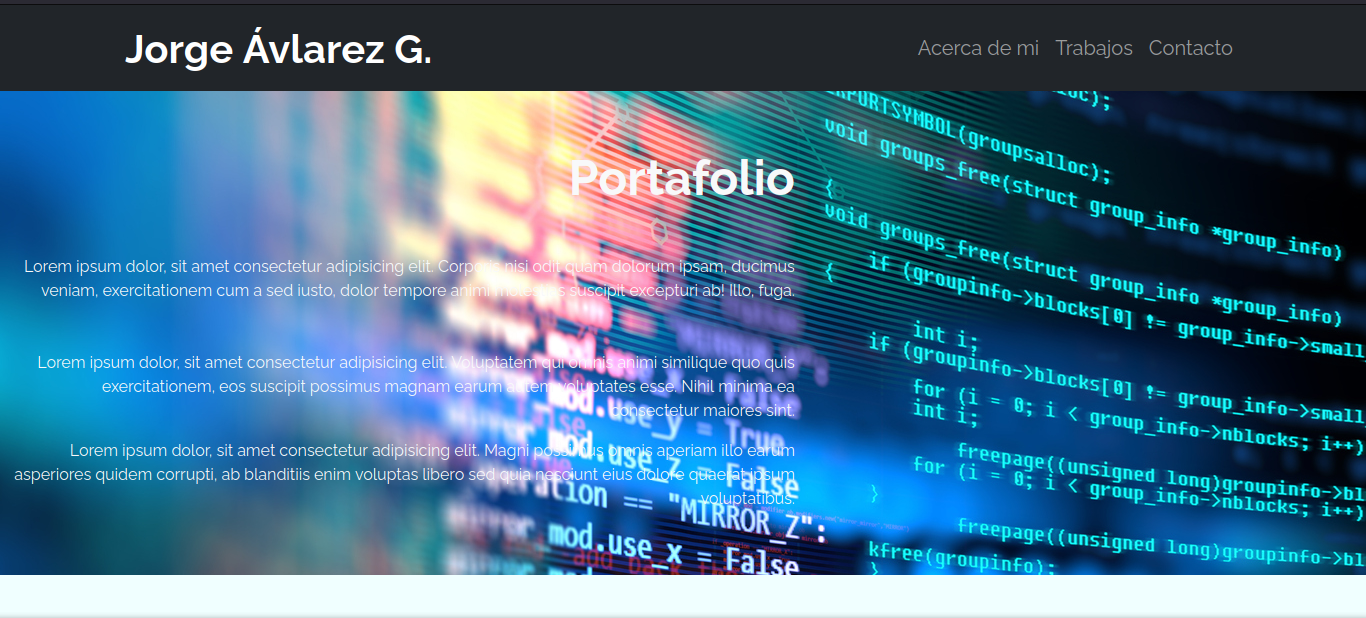
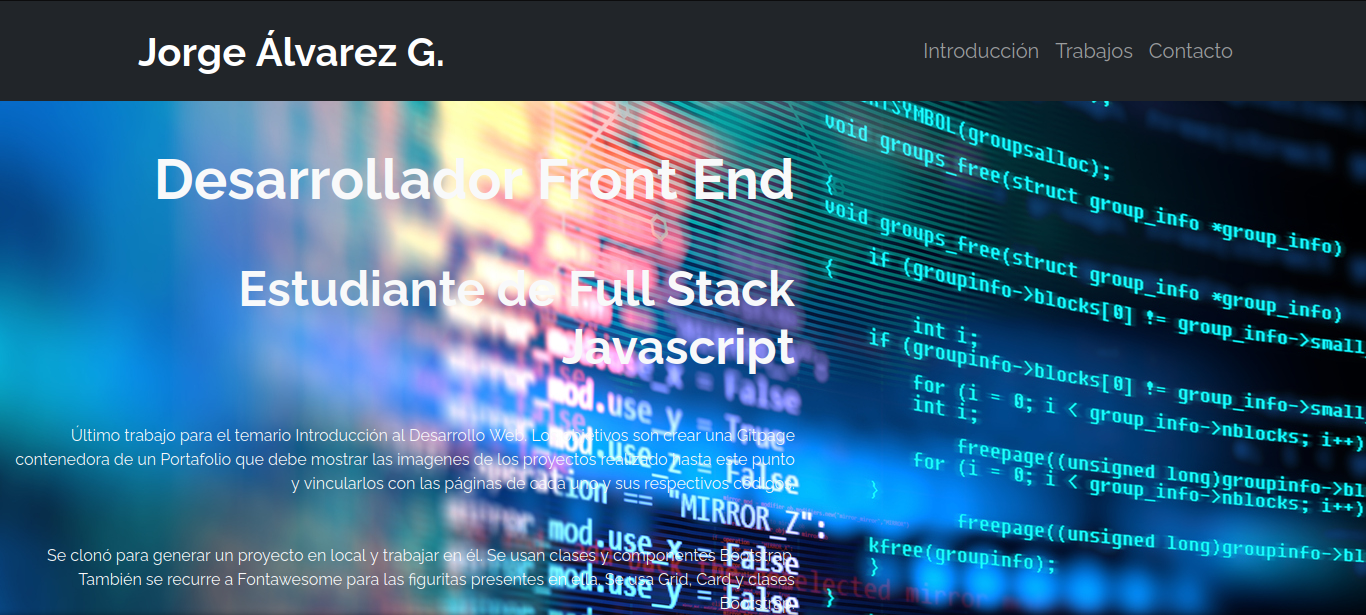
se hace leve corrección a la imagen del Header; se modifica el texto introducctorio; se corrigen errores de escritura

diff --git a/index.html b/index.html
@@ -26,6 +26,8 @@
     <nav class="navbar navbar-expand-lg navbar-dark bg-dark fixed-top">
         <div class="container">
             <a class="navbar-brand" href="#">
+                <!--Se hace referencia al id que corresponde al Modal-->
+                <!--Se usa un div, pero se le dan características y clases de botón Bootstrap-->
                 <div type="button" class="btn btn-dark fw-bold fs-1" data-bs-toggle="modal"
                     data-bs-target="#exampleModal">Jorge
                     Álvarez G.
@@ -51,7 +53,7 @@
         </div>
     </nav>
 
-    <!-- Modal -->
+    <!-- Modal sencillo con imagen y un breve texto -->
     <div class="modal fade" id="exampleModal" tabindex="-1" aria-labelledby="exampleModalLabel" aria-hidden="true">
         <div class="modal-dialog">
             <div class="modal-content bg-black text-bg-light text-light">
@@ -83,7 +85,7 @@
 
     <header id="Hero-Section" class="text-light text-end py-5 mt-5">
         <div class="container-fluid">
-            <div class="col-12 col-md-7 ">
+            <div class="col-12 col-md-7">
                 <hgroup>
                     <h1 class="display-4 fw-bold my-5">
                         Desarrollador Front End
@@ -93,18 +95,19 @@
                     </h2>
                 </hgroup>
                 <p class="my-5">
-                    Último trabajo para el temario Introducción al Desarrollo Web. Los objetivos son crear una Gitpage
-                    contenedora de un Portafolio que debe mostrar las imagenes de los proyectos realizado hasta este
-                    punto y vincularlos con las páginas de cada uno y sus respectivos códigos.
+                    Último trabajo para el temario <strong>Introducción al Desarrollo Web</strong>. A continuación se
+                    hace una breve descripción de la forma de trabajar el proyecto. <br> Los objetivos son crear una
+                    Gitpage contenedora de un Portafolio que debe mostrar las imagenes de los proyectos realizado hasta
+                    este punto y vincularlos con las páginas de cada uno y sus respectivos códigos.
                 </p>
                 <p>
                     Se clonó para generar un proyecto en local y trabajar en él. Se usan clases y componentes Bootstrap.
-                    También se recurre a Fontawesome para las figuritas presentes en ella. Se usa Grid, Card y clases
-                    Bootstrap.
+                    También se recurre a Fontawesome para las figuritas presentes en ella (en el footer). Se usa Grid,
+                    Card, Modal, clases Bootstrap, etcétera.
                 </p>
                 <p>
-                    Se usan algunos elementos CSS específicos para dar el efecto de papiro (scroll) con una imagen de
-                    fondo global y otra particular (efecto parallax).
+                    Se usan algunos elementos CSS específicos para dar el efecto de papiro o rollo (scroll) con una
+                    imagen de fondo global y otra particular en la sección Mis Trabajos (parallax).
                 </p>
                 <!--<div class="mb-5 pb-5">
                     <button class="btn btn-lg btn-outline-info text-light me-4">Trabajos</button>
@@ -276,7 +279,7 @@
                     <img src="assets/img/PruebaPortafolio.png" class="card-img-top" alt="cv">
                     <div class="card-body">
                         <h5 class="card-title fw-bold">
-                            Prueba Portafolio
+                            Prueba final del primer módulo
                         </h5>
                         <p class="card-text">
                             Trabajo consistente en elaborar una gitpage directamente en el sitio. Luego clonarlo y
@@ -294,13 +297,13 @@
                     <img src="assets/img/ForkProyecto4.png" alt="proyecto4">
                     <div class="card-body">
                         <h5 class="card-title fw-bold">
-                            Fork a Proyectos de Comapañeras
+                            Fork a Proyectos de Compañeras y Compañeros del curso
                         </h5>
                         <p>
-                            Fork al Proyecto 4 de la compañera Jennifer, Vania y Felipe. En el primero se agrega un
-                            área para mensajes y se separa el botón Enviar de los elementos anteriores. En el segundo,
-                            se aumentó la separación horizontal de los elementos Card. Para Felipe solo hice Fork. Sólo
-                            se incluyen los botones para examinar los códigos.
+                            Fork al Proyecto 4 de las compañeras Jennifer, Vania y compañero Felipe. En el primero se
+                            agrega un área para mensajes y se separa el botón Enviar de los elementos anteriores. En el
+                            segundo, se aumentó la separación horizontal de los elementos Card. Para Felipe solo hice
+                            Fork. Sólo se incluyen los botones para examinar los códigos.
                         </p>
                         <button type="button" class="btn btn-outline-info">
                             <a href="https://github.com/jorge2101719/Proyecto4/settings" target="_blank">
@@ -329,7 +332,7 @@
     <section id="Contacto" class="container my-5 text-light">
         <h2 class="display-4 fw-bold text-center my-4">Contáctame</h2>
         <p class="text-center my-4 d-none d-md-block">
-            Este formulario no tiene todavía la funcionalidad que debería, por no tener desarrollado el Back End.
+            Este formulario no posee todavía la funcionalidad que debe, por no tener un desarrollado el Back End.
         </p>
 
         <form>
